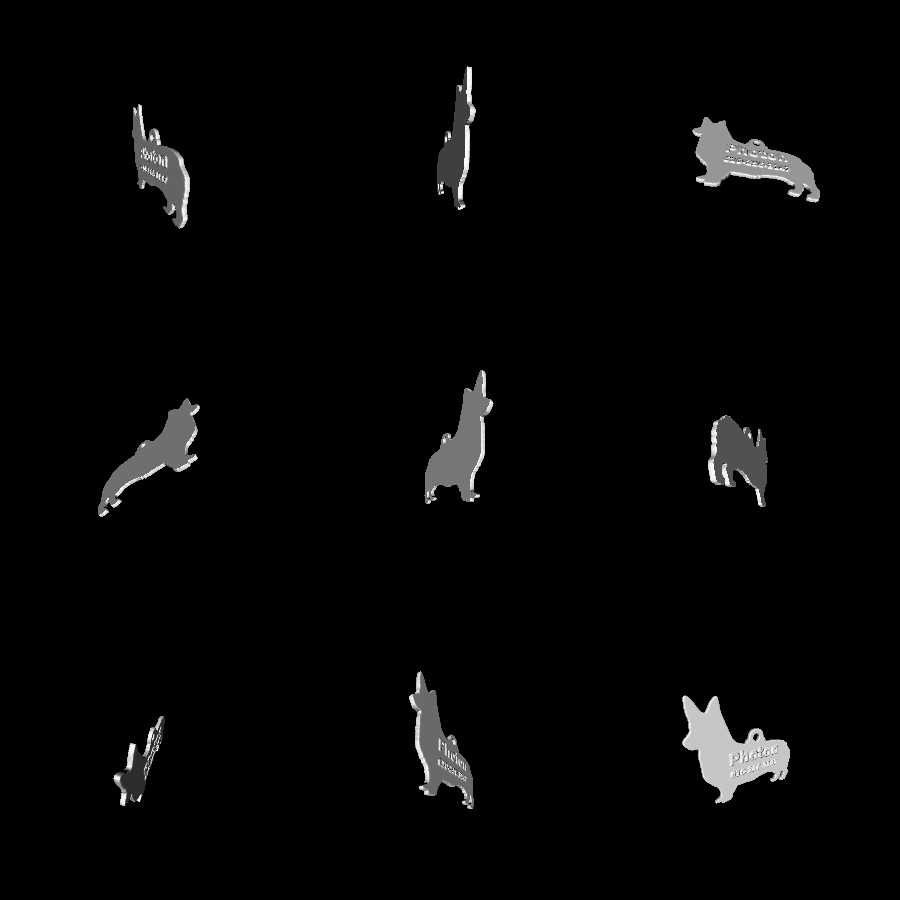
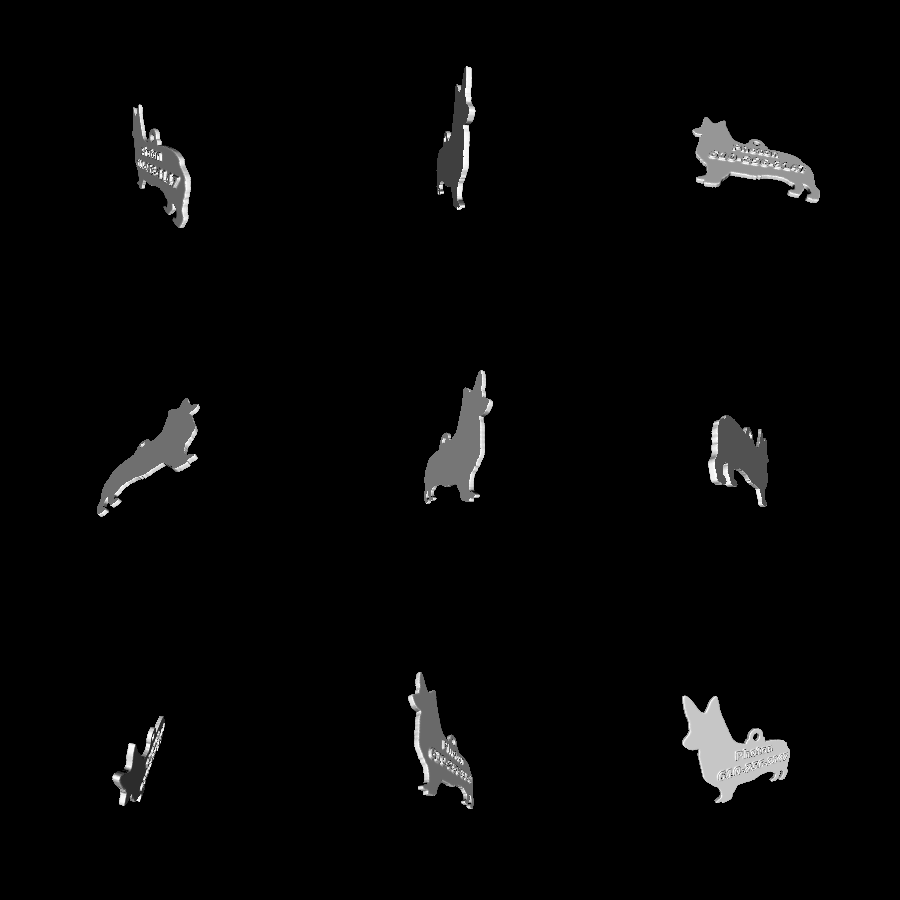
dog_tag: better-readability

diff --git a/examples/usable/dog_tag/main.go b/examples/usable/dog_tag/main.go
@@ -11,8 +11,8 @@ const (
 	Scale     = 0.003
 	Width     = 682 * Scale
 	Height    = 573 * Scale
-	Depth     = 0.05
-	TextDepth = 0.07
+	Depth     = 0.06
+	TextDepth = 0.1
 )
 
 func main() {
